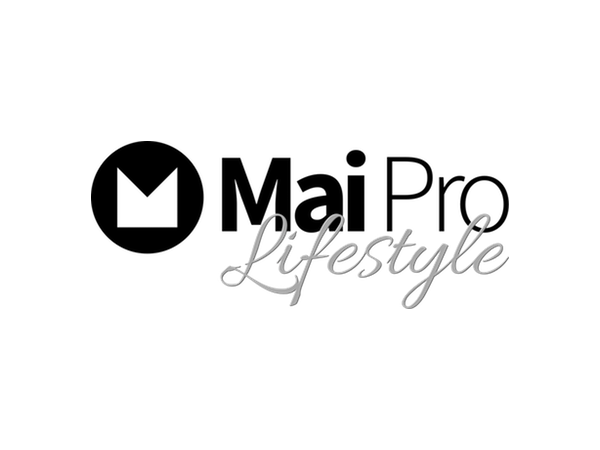
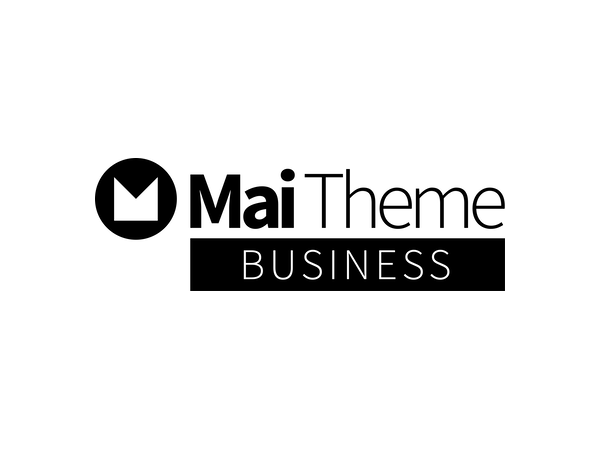
Get ready for initial launch

Changed region(s): [[0.15, 0.3111, 0.87, 0.6844]]

diff --git a/style.css b/style.css
@@ -1,6 +1,6 @@
 /**
- * Theme Name:          Mai Business Pro
- * Description:         Mai Business Pro is a custom child theme for The Genesis Framework.
+ * Theme Name:          Mai Business Theme
+ * Description:         Mai Business Theme is a custom child theme for The Genesis Framework.
  * Author:              Mike Hemberger, BizBudding Inc
  * Author URI:          https://bizbudding.com/
  * Version:             1.0.0
@@ -15,10 +15,6 @@
 /* Table of Contents
 
 	- Defaults
-	- Structure and Layout
-	- Common Classes
-	- Content Area
-		- Entry Meta
 	- Media Queries (mobile-first)
 	- Media Queries (mobile-second)
 
@@ -27,18 +23,6 @@
 
 /* # Defaults
 ---------------------------------------------------------------------------------------------------- */
-
-/**
- * Retina Logo
- *
- * If uploading double sized (retina) image,
- * put exactly half the width in pixels for retina display.
- * Example: Retina (2x) image is 360px by 90px, CSS should be:
- * max-width: 180px;
- */
-.wp-custom-logo .site-title a {
-	/* max-width: 180px; */
-}
 
 body {
 	background-color: #f4f4f4;
@@ -62,214 +46,11 @@ h6,
 .comment-respond h3,
 .widgettitle,
 .widget-title {
-	font-weight: 700;
-}
-
-/* # Structure and Layout
----------------------------------------------------------------------------------------------------- */
-
-.site-container {
-	background-color: #fff;
-	max-width: 1248px;
-	/* margin: -1px auto; */
-	margin: 0;
-	border: 1px solid rgba(0,0,0,0.085);
-	-webkit-transition: margin 0.025s ease-in-out;
-	-o-transition: margin 0.025s ease-in-out;
-	transition: margin 0.025s ease-in-out;
-}
-
-.site-inner {
-	padding-left: 0;
-	padding-right: 0;
-	overflow: hidden;
-}
-
-.width-full,
-.section .wrap.width-full,
-.section.banner-area > .wrap.width-full {
-	max-width: 1248px;
-	margin-left: auto;
-	margin-right: auto;
-}
-
-.sticky-header .site-header {
-	/* minus 2px for border */
-	max-width: 1198px;
-}
-
-.header-before {
-	border-bottom: 1px solid rgba(0,0,0,0.03);
-}
-
-
-/* # Common Classes
----------------------------------------------------------------------------------------------------- */
-
-.section > .wrap {
-	/* max-width: 1200px; */
-}
-
-.image-bg .inner {
-	border: 6px solid rgba(0,0,0,0.075);
-}
-
-.breadcrumb,
-.md-content .breadcrumb,
-.sm-content .breadcrumb,
-.xs-content .breadcrumb,
-.no-sidebars .breadcrumb {
-	-ms-flex-preferred-size: calc( 100% + 48px );flex-basis: calc( 100% + 48px );
-	max-width: calc( 100% + 48px );
-	background-color: #f8f8f8;
-	font-size: 13px;
-	padding: 8px 24px;
-	margin: 0;
-	border-bottom: 1px solid #f0f0f0;
-	-webkit-font-smoothing: antialiased;
-}
-
-/* # Site Header
----------------------------------------------------------------------------------------------------- */
-
-.nav-header {
-	/* display: none; */
-	/* visibility: hidden; */
-}
-
-#mai-toggle {
-	/* display: -webkit-inline-box; */
-	/* display: -ms-inline-flexbox; */
-	/* display: inline-flex; */
-	/* visibility: visible; */
-}
-
-/* # Content Area
----------------------------------------------------------------------------------------------------- */
-
-.content {
-	padding-left: 24px;
-	padding-right: 24px;
-}
-
-.content,
-.sidebar {
-	margin-top: 0;
-	margin-bottom: 0;
-}
-
-.sidebar {
-	background-color: #fbfbfb;
-}
-
-.entry,
-.sidebar .widget {
-	background-color: transparent;
-	border: none;
-}
-
-.content .archive-description {
-	padding-top: 24px;
-}
-
-.content .entry,
-.related.products .product {
-	padding-left: 0;
-	padding-right: 0;
-	padding-bottom: 0;
-}
-
-.content-sidebar-sidebar .sidebar,
-.content-sidebar .sidebar.sidebar-primary,
-.sidebar-content-sidebar .sidebar.sidebar-primary {
-	border-left: 1px solid #f0f0f0;
-}
-
-.sidebar-sidebar-content .sidebar,
-.sidebar-content .sidebar.sidebar-primary,
-.sidebar-content-sidebar .sidebar.sidebar-secondary {
-	border-right: 1px solid #f0f0f0;
-}
-
-.sidebar .widget {
-	margin: 0;
-	border-bottom: 1px solid #f0f0f0;
-}
-
-.sidebar .widget:last-child {
-	border: none;
-}
-
-.singular.has-banner-area .featured-image {
-	margin-top: 24px;
-}
-
-.singular:not(.has-banner-area) .featured-image {
-	margin-top: -1px;
-	margin-left: -24px;
-	margin-right: -24px;
-}
-
-.singular:not(.has-banner-area):not(.has-sidebar) .featured-image {
-	margin-top: 30px;
-}
-
-.flex-entry.column .entry-image-before-entry:not(.aligncenter):not(.alignleft):not(.alignright),
-.flex-entry.entry > .woocommerce-LoopProduct-link,
-.related.products .product > .woocommerce-LoopProduct-link {
-	width: 100%;
-	margin-top: 0;
-	margin-left: 0;
-	margin-right: 0;
-}
-
-/* ## Entry Meta
---------------------------------------------- */
-
-.entry-footer .entry-meta {
-	border-top: 1px solid #ebe9eb;
-	padding-left: 24px;
-	padding-right: 24px;
-	margin-left: -24px;
-	margin-right: -24px;
-}
-
-.flex-entry .entry-footer .entry-meta {
-	margin-top: 20px;
-}
-
-.entry-comments .comment-meta {
-	-webkit-font-smoothing: antialiased;
-}
-
-.adjacent-entry-pagination,
-.after-entry .widget,
-.comment-respond,
-.content .author-box,
-.entry-comments,
-.entry-pings {
-	/* margin-left: 24px; */
-}
-
-/* # Plugins
----------------------------------------------------------------------------------------------------- */
-
-.enews-widget input {
-	margin-bottom: 12px;
-}
-
-.woocommerce-page.post-type-archive-product .breadcrumb {
-	margin-bottom: 16px;
+	/* font-weight: 700; */
 }
 
 /* # Media Queries (mobile-first)
 ---------------------------------------------------------------------------------------------------- */
-
-@media only screen and (min-width: 1200px) {
-	.site-container {
-		margin: 16px auto;
-	}
-}
 
 @media only screen and (min-width: 1160px) {}
 

diff --git a/includes/dependencies/wp-dependency-installer.php b/includes/dependencies/wp-dependency-installer.php
@@ -12,7 +12,6 @@
  * @author    Matt Gibbs
  * @license   MIT
  * @link      https://github.com/afragen/wp-dependency-installer
- * @version   1.4.8
  */
 
 /**
@@ -28,13 +27,6 @@ if ( ! class_exists( 'WP_Dependency_Installer' ) ) {
 	 * Class WP_Dependency_Installer
 	 */
 	class WP_Dependency_Installer {
-
-		/**
-		 * Holds the singleton instance.
-		 *
-		 * @var \WP_Dependency_Installer
-		 */
-		private static $instance;
 
 		/**
 		 * Holds the JSON file contents.
@@ -68,11 +60,12 @@ if ( ! class_exists( 'WP_Dependency_Installer' ) ) {
 		 * Singleton.
 		 */
 		public static function instance() {
-			if ( null === self::$instance ) {
-				self::$instance = new self();
+			static $instance = null;
+			if ( null === $instance ) {
+				$instance = new self();
 			}
 
-			return self::$instance;
+			return $instance;
 		}
 
 		/**
@@ -86,6 +79,9 @@ if ( ! class_exists( 'WP_Dependency_Installer' ) ) {
 			add_action( 'admin_notices', array( $this, 'admin_notices' ) );
 			add_action( 'network_admin_notices', array( $this, 'admin_notices' ) );
 			add_action( 'wp_ajax_dependency_installer', array( $this, 'ajax_router' ) );
+
+			// Initialize Persist admin Notices Dismissal dependency.
+			add_action( 'admin_init', array( 'PAnD', 'init' ) );
 		}
 
 		/**
@@ -188,10 +184,10 @@ if ( ! class_exists( 'WP_Dependency_Installer' ) ) {
 			if ( ! $download_link ) {
 				$url           = 'https://api.wordpress.org/plugins/info/1.1/';
 				$url           = add_query_arg(
-					[
+					array(
 						'action'                     => 'plugin_information',
 						urlencode( 'request[slug]' ) => $slug,
-					],
+					),
 					$url
 				);
 				$response      = wp_remote_get( $url );
@@ -210,11 +206,6 @@ if ( ! class_exists( 'WP_Dependency_Installer' ) ) {
 		 * Determine if dependency is active or installed.
 		 */
 		public function admin_init() {
-			// Initialize Persist admin Notices Dismissal dependency.
-			if ( class_exists( 'PaND' ) ) {
-				PaND::init();
-			}
-
 			// Get the gears turning.
 			$this->apply_config();
 
